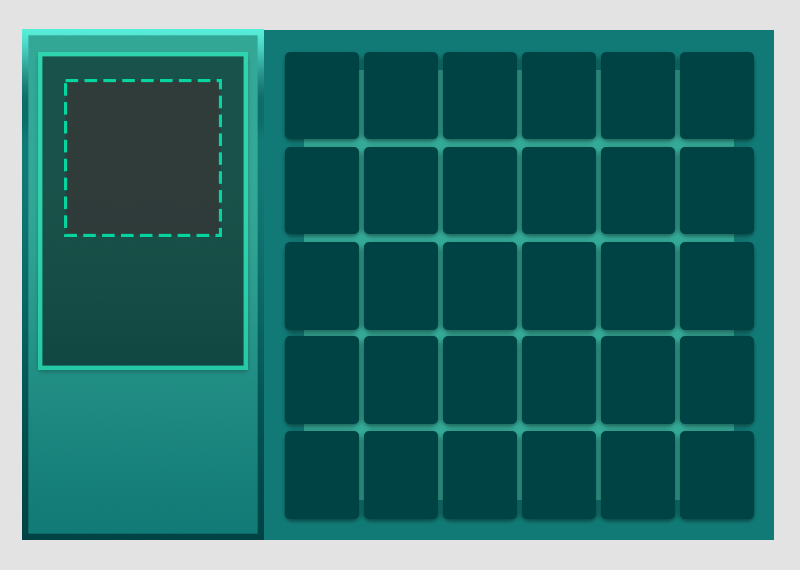
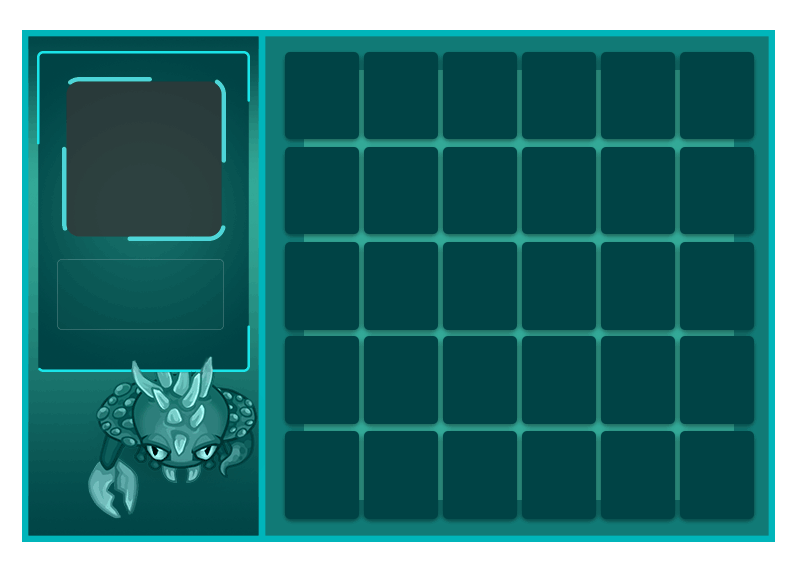
+ new chest style

diff --git a/Dynastio.Bot/Interactions/commands/rank.cs b/Dynastio.Bot/Interactions/commands/rank.cs
@@ -58,8 +58,8 @@ namespace Dynastio.Bot.Interactions.Modules.@public
                         .WithIsInline(true),
 
                          new EmbedFieldBuilder()
-                        .WithName("Next Role")
-                        .WithValue( $"<@&{nextRole.Id}>")
+                        .WithName("Next Level")
+                        .WithValue( $"**{BotUser.activiy_level + 1}** / <@&{nextRole.Id}>")
                         .WithIsInline(true),
 
                          new EmbedFieldBuilder()
